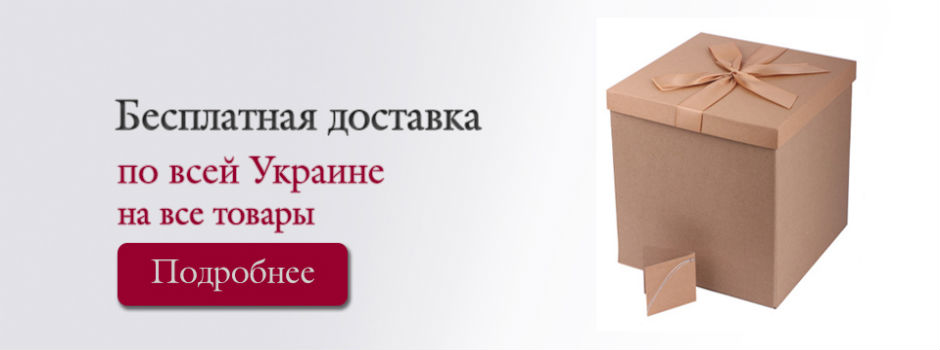
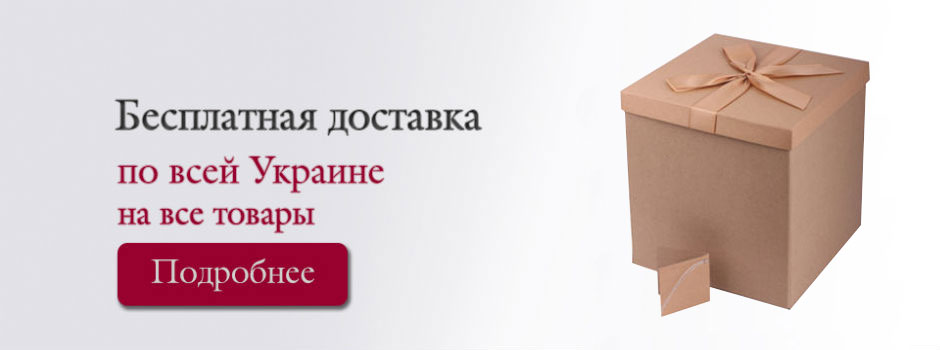
Pictures changed

Changed region(s): [[0.617, 0.0857, 0.9255, 0.9143]]

diff --git a/app/assets/stylesheets/welcome.css.scss b/app/assets/stylesheets/welcome.css.scss
@@ -145,7 +145,7 @@
 
     .new_product {
       display    : block;
-      background : url(/assets/must-haves-box.jpg) no-repeat;
+      background : url(/assets/must-haves-box.png) no-repeat;
       width      : 300px;
       height     : 181px;
       float      : left;
@@ -238,7 +238,7 @@
       width      : 190px;
       height     : 180px;
       background : url("vote_vk.png") no-repeat;
-      margin     : 10px 0 0 40px;
+      margin     : 10px 0 0 25px;
     }
 
     .question {
